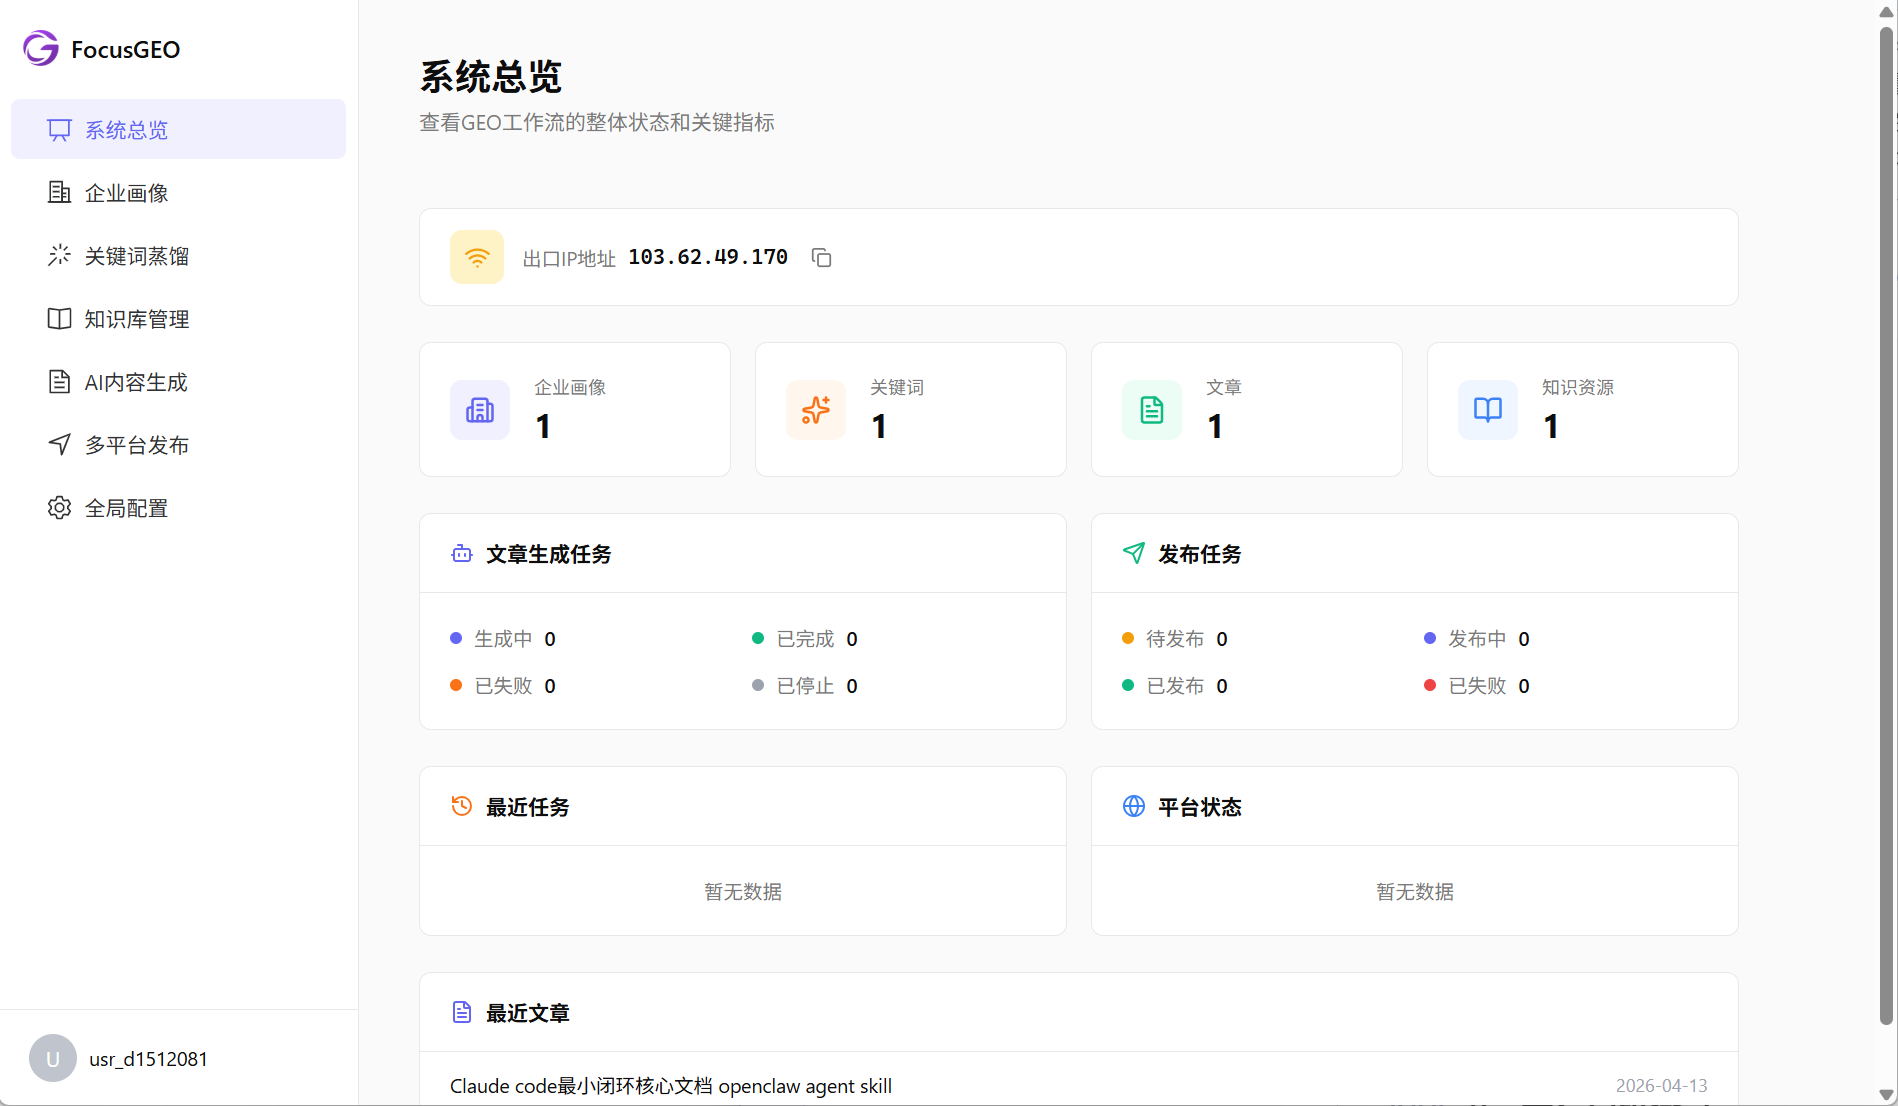
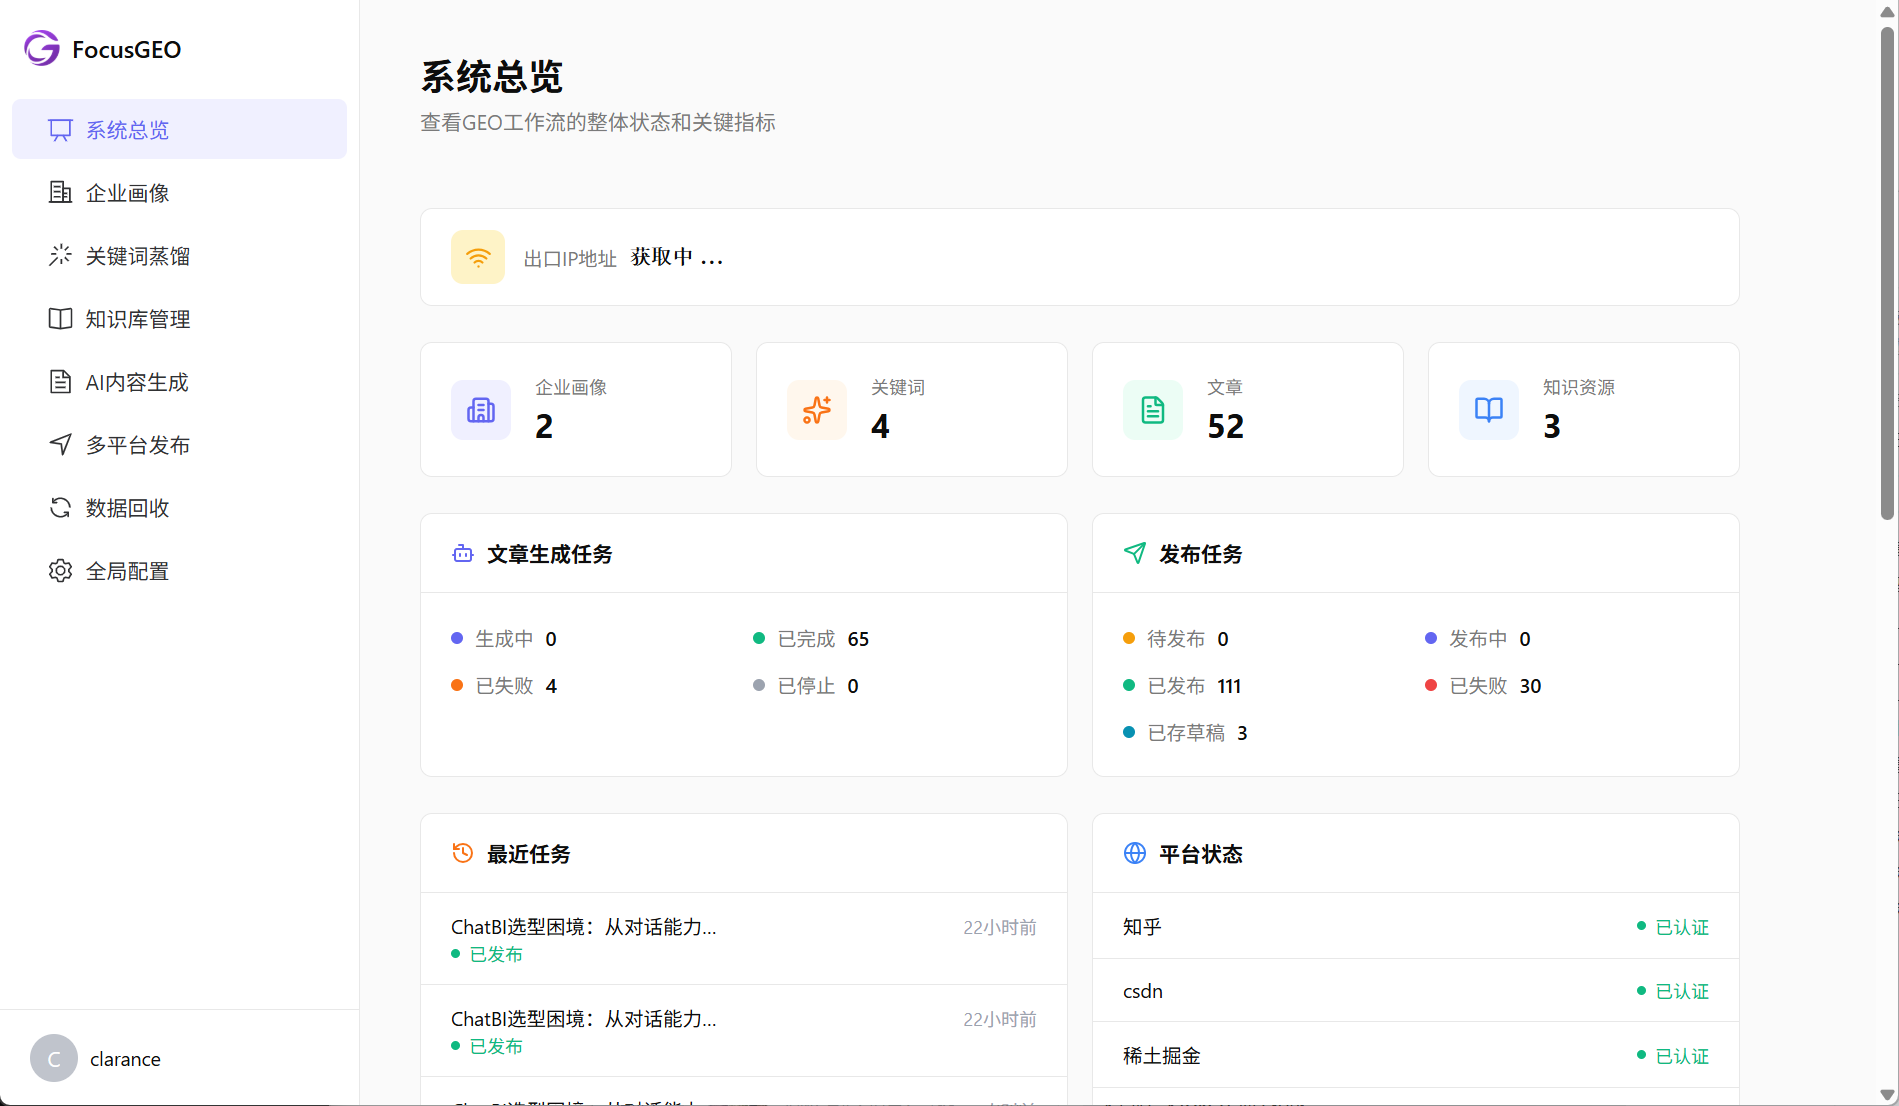
docs: 统一产品名称为 FocusGEO，更新图片链接为 GitHub 格式
- 将所有文档中的 'Focus GEO' 统一为 'FocusGEO'（不带空格）
- 更新图片引用格式：Obsidian 风格 → GitHub 链接格式
- 更新 README.md 产品名称
- 更新 Focus GEO使用手册.md

diff --git a/版本更新.md b/版本更新.md
@@ -6,13 +6,29 @@ updated: 2026/06/05 10:00
 # 版本更新记录
 
 ## v0.4.0 (2026-06-04)
-
 ### 新增功能
-1. **数据回收 - GEO 排名检测**
-   - 全面了解品牌在多个 AI 搜索引擎上的表现
-   - 支持检测平台：百度 AI、DeepSeek、Kimi、豆包、腾讯元宝等
-   - 助力优化 GEO（生成式引擎优化）策略
-   - 实时监控品牌在 AI 搜索结果中的排名变化
+1. GEO数据回收
+	新增支持【文心一言、智普轻言、kimi、deepseek】四大平台的的GEO效果监控
+2. 自动标签
+3. 一键授权检测
+	新增授权平台一键检测功能
+### 优化
+1、优化内容生成流程
+
+| 级别 | 品牌角色 | 提及量 | 适用条件 |
+|------|---------|-------|---------|
+| L1 纯行业 | 不提及 | 0 | 无企业信息 |
+| L2 类别引用 | 类别中的一个实例 | 2-3 次 | 有基础信息 |
+| L3 方法锚定 | 方法论的实施示例 | 3-5 次 | 有完整画像 |
+| L4 案例嵌入 | 具体实施证据 | 4-6 次 | 有客户案例/数据 |
+| L5 专题说明 | 分析对象 | 按类型 | 落地页/案例研究 |
+
+| 模板 | 适用场景 | 长度 | 品牌上限 |
+|------|---------|------|---------|
+| 深度文章 | 日常博客、行业分析 | 1500-3000 字 | L3 方法锚定 |
+| 要点总结 | 梳理类、清单类 | 800-1500 字 | L2 类别引用 |
+| 概念解读 | 概念科普、趋势分析 | 1500-3000 字 | L3 方法锚定 |
+| 品牌推广 | 品牌内容、产品介绍 | 1000-2000 字 | L4 案例嵌入 |
 
 ---
 

diff --git a/README.md b/README.md
@@ -1,8 +1,8 @@
-# Focus GEO
+# FocusGEO
 
 > AI 驱动的内容生成与多平台分发工具，让内容营销效率提升 10 倍
 
-Focus GEO 是一款专为内容营销团队设计的 AI 工具，帮助企业快速生成高质量的营销内容，并一键发布到 13 个主流自媒体平台。
+FocusGEO 是一款专为内容营销团队设计的 AI 工具，帮助企业快速生成高质量的营销内容，并一键发布到 13 个主流自媒体平台。
 
 ---
 
@@ -103,7 +103,7 @@ Focus GEO 是一款专为内容营销团队设计的 AI 工具，帮助企业快
 
 ## 📖 更多文档
 
-- [使用手册 v4.0](./Focus%20GEO使用手册_v4.md) - 完整的产品使用指南
+- [使用手册 v4.0](./Focus%20GEO使用手册.md) - 完整的产品使用指南
 - [版本更新记录](./版本更新.md) - 查看历史版本更新内容
 
 ---
@@ -163,4 +163,4 @@ Focus GEO 是一款专为内容营销团队设计的 AI 工具，帮助企业快
 
 ## 📝 许可证
 
-Copyright © 2026 Focus GEO. All rights reserved.
+Copyright © 2026 FocusGEO. All rights reserved.